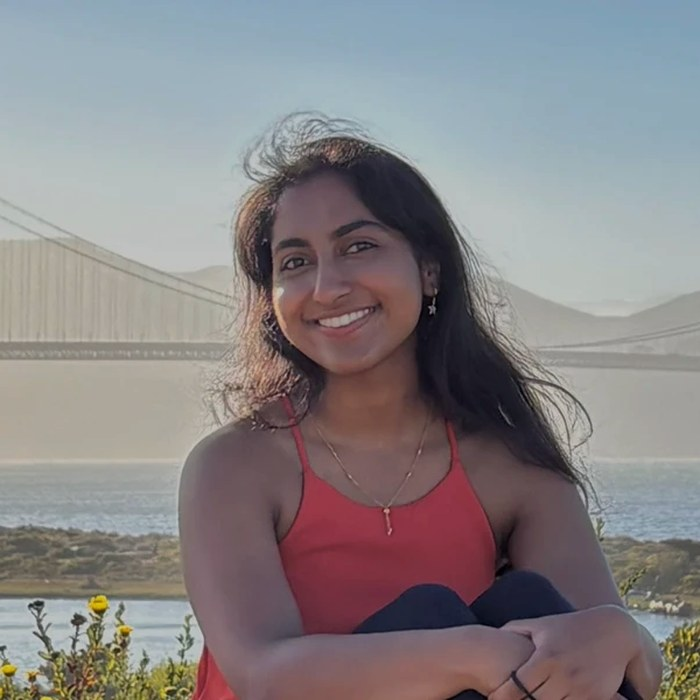
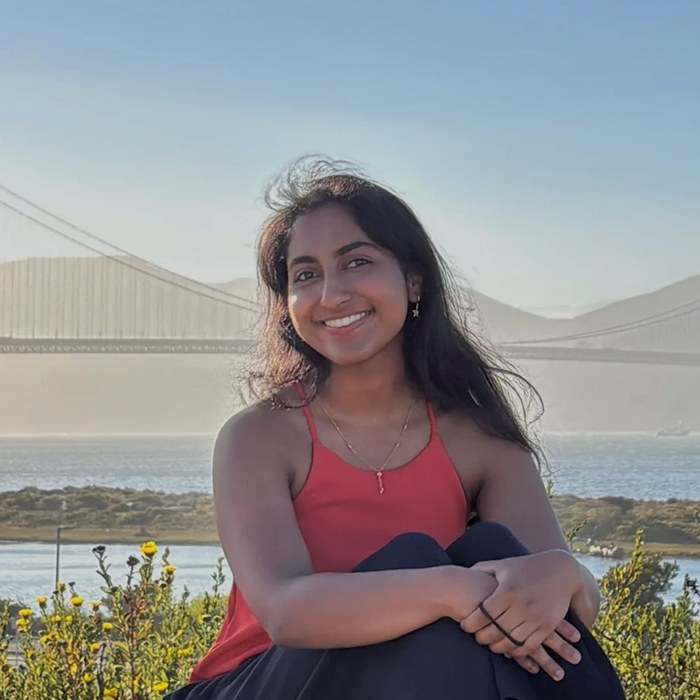
Add my outside-Caltech work to the bio, and widen the portrait
Reverts the resume-style bullets added to the portfolio, publications,
research and more-me pages. The only text change is one line in the home
bio naming DeepMind, AITHYRA, alphaXiv and Aureka, and melding becomes
interfacing.

diff --git a/pages/portfolio.html b/pages/portfolio.html
@@ -25,9 +25,7 @@ permalink: /pages/portfolio/
           <ul>
             <li>Built an AI brain-lesion detection application for clinical radiologists at Stanford.<!-- TODO: Saanvi to confirm the evaluation/trial status and add a public link. --></li>
             <li>Post-training and evaluations for clinical EEG foundation models.</li>
-            <li>Routed lesion decisions on cross-segment self-agreement in place of model confidence, reaching 88.4% accuracy at 40% coverage against a 70.0% baseline (CI +7.3 to +30.6).</li>
-            <li>Combined EEG and MRI to recover 14 of 25 lesions the baseline missed, against 1.4 expected by chance (p &lt; 0.001).</li>
-            <li>Awarded a Caltech SURF. First author on the resulting oral at NeurIPS 2026 RCMLR.</li>
+            <li>Awarded a Caltech SURF.</li>
           </ul>
           <p class="exp-reflection">It was great collaborating with radiologists on this project and building software for the division. My goal was to build lesion detection for epilepsy using MRI and EEG information, simulating the multimodal nature of a clinician's workflow, and this work is being written up.<!-- TODO: Saanvi to confirm the publication status and add a link. --> This experience was especially fun as my first summer in SF, where I grew a lot and got to meet exceptional teams building at the frontier of AI x Bio.</p>
         </div>
@@ -99,66 +97,6 @@ permalink: /pages/portfolio/
 </section>
 
 <section class="exp-group">
-  <h2 class="exp-group-title">genome &amp; protein models</h2>
-  <div class="exp-cards">
-
-    <article class="exp-card-static">
-      <div class="exp-card-face">
-        <div class="exp-card-head">AITHYRA, Research Institute for Biomedical AI, with Ariane Mora</div>
-        <div class="exp-card-body">
-          <ul>
-            <li>Built a seeded, version-pinned evaluation harness for three autoregressive genome language models: Evo 2, GENERator and Carbon.</li>
-            <li>Found 22.4% repetition collapse in Carbon against 0.08% in GENERator, and traced it to 6-mer tokenization.</li>
-            <li>Showed the generated spectrum tracked the prompt rather than the training corpus.</li>
-          </ul>
-          <p class="exp-reflection">This was my first time auditing a generative model instead of building one. Vienna was remote for me, and the harness is the piece I am proudest of: every number in the writeup can be reproduced from a seed and a pinned commit.</p>
-        </div>
-      </div>
-    </article>
-
-    <article class="exp-card-static">
-      <div class="exp-card-face">
-        <div class="exp-card-head">Arnold Laboratory, Caltech, with Frances Arnold</div>
-        <div class="exp-card-body">
-          <ul>
-            <li>Computational de novo enzyme design with diffusion models, targeting beta-lactamase activity.</li>
-          </ul>
-        </div>
-      </div>
-    </article>
-
-    <article class="exp-card-static">
-      <div class="exp-card-face">
-        <div class="exp-card-head">Aureka Biotechnologies, with Danyal Rehman (incoming)</div>
-        <div class="exp-card-body">
-          <ul>
-            <li>AI/ML Scientist Intern, January to June 2027.</li>
-            <li>Converting an in-house autoregressive folding model for antibody design, and reinforcement learning fine-tuning of the foundation model on high-throughput experimental data.</li>
-          </ul>
-        </div>
-      </div>
-    </article>
-
-  </div>
-</section>
-
-<section class="exp-group">
-  <h2 class="exp-group-title">research writing</h2>
-  <div class="exp-cards">
-    <article class="exp-card-static">
-      <div class="exp-card-face">
-        <div class="exp-card-head">alphaXiv</div>
-        <div class="exp-card-body">
-          <ul>
-            <li>Research writer, writing long-form technical guides on world models and on language model psychology.</li>
-          </ul>
-        </div>
-      </div>
-    </article>
-  </div>
-</section>
-
-<section class="exp-group">
   <h2 class="exp-group-title">cancer genomics</h2>
   <div class="exp-cards">
     <article class="exp-card-static">
@@ -167,7 +105,6 @@ permalink: /pages/portfolio/
         <div class="exp-card-body">
           <ul>
             <li>Built ML models on ~1M medulloblastoma cells to identify malignant populations, and presented at the Stanford CCRTP.</li>
-            <li>Won the <a href="https://med.stanford.edu/cancer/about/news/internal/2024_poster_winners.html" target="_blank" rel="noopener noreferrer">People's Choice Award</a> at the 2024 Stanford Comprehensive Cancer Research Training Program, as the only high school student invited (<a href="https://drive.google.com/file/d/1jMRbw48vh7ewmfSiXvcXfDMqBXOKrYhw/view?usp=sharing" target="_blank" rel="noopener noreferrer">presentation</a>).</li>
           </ul>
         </div>
       </div>
@@ -183,9 +120,7 @@ permalink: /pages/portfolio/
         <div class="exp-card-head">University of Washington Sensor Systems Laboratory</div>
         <div class="exp-card-body">
           <ul>
-            <li>Designed and tested energy-harvester topologies in an anechoic chamber, building three working UHF prototypes.</li>
-            <li>Presented twice at the UW Women at the Forefront of ECE Research conference (<a href="https://drive.google.com/file/d/15xK_FEivhXALa6K98qlb4P0eXQ65XMpY/view?usp=sharing" target="_blank" rel="noopener noreferrer">presentation</a>), with the work written up as an <a href="https://papers.ssrn.com/sol3/papers.cfm?abstract_id=4931474" target="_blank" rel="noopener noreferrer">SSRN manuscript</a>.</li>
-            <li>Won AFCEA Excellence in Technology and Sigma Xi Best Interdisciplinary Research at the WA State Science and Engineering Fair, out of 170 competitors.</li>
+            <li>Designed and tested energy-harvester topologies in an anechoic chamber.</li>
           </ul>
         </div>
       </div>

diff --git a/pages/publications.html b/pages/publications.html
@@ -31,42 +31,6 @@ permalink: /publications/
     <div class="pub">
       <div class="pub-when">Dec 2026</div>
       <div class="pub-body">
-        <p class="pub-t">Right Number, Wrong Conclusion: Seven Failures in Clinical ML Evaluation</p>
-        <p class="pub-v">RCMLR @ NeurIPS 2026, <span class="pub-type">oral, first author</span></p>
-        <p class="pub-links"><a href="https://openreview.net/forum?id=k7zEEtF1V8" target="_blank" rel="noopener noreferrer">paper</a></p>
-      </div>
-    </div>
-
-    <div class="pub">
-      <div class="pub-when">Dec 2026</div>
-      <div class="pub-body">
-        <p class="pub-t">When the Verifier Is Wrong: Red-Teaming Agent Verification Where Ground Truth Exists</p>
-        <p class="pub-v">Verify-Agents @ NeurIPS 2026, <span class="pub-type">poster</span></p>
-        <p class="pub-links"><a href="{{ '/verify-agents/' | relative_url }}">project page</a></p>
-      </div>
-    </div>
-
-    <div class="pub">
-      <div class="pub-when">Dec 2026</div>
-      <div class="pub-body">
-        <p class="pub-t">Which Latent Coordinates Drive World-Model Dynamics?</p>
-        <p class="pub-v">Robot Learning with World Models @ NeurIPS 2026</p>
-        <p class="pub-links"><a href="{{ '/latent-coordinates/' | relative_url }}">project page</a></p>
-      </div>
-    </div>
-
-    <div class="pub">
-      <div class="pub-when">Dec 2026</div>
-      <div class="pub-body">
-        <p class="pub-t">Does Benchmark Correlation Predict Selection Quality?</p>
-        <p class="pub-v">Trust-AI-Eval @ NeurIPS 2026</p>
-        <p class="pub-links"><a href="{{ '/benchmark-selection/' | relative_url }}">project page</a></p>
-      </div>
-    </div>
-
-    <div class="pub">
-      <div class="pub-when">Dec 2026</div>
-      <div class="pub-body">
         <p class="pub-t">Action Identifiability in Protein-Design Agents</p>
         <p class="pub-v">AgenticLS @ NeurIPS 2026, <span class="pub-type">poster</span></p>
       </div>
@@ -75,18 +39,17 @@ permalink: /publications/
     <div class="pub">
       <div class="pub-when">Dec 2026</div>
       <div class="pub-body">
-        <p class="pub-t">Do Protein Model Scores Predict Better Proteins? (Gauntlet)</p>
+        <p class="pub-t">Gauntlet: stress-testing protein fitness proxies</p>
         <p class="pub-v">AI for Science @ NeurIPS 2026, <span class="pub-type">poster</span></p>
-        <p class="pub-links"><a href="{{ '/fitness-proxies/' | relative_url }}">project page</a> &nbsp; <a href="https://github.com/saanviiyer/protein-lm-audits/tree/main/gauntlet" target="_blank" rel="noopener noreferrer">code</a></p>
+        <p class="pub-links"><a href="https://github.com/saanviiyer/protein-lm-audits/tree/main/gauntlet" target="_blank" rel="noopener">code</a></p>
+        <!-- TODO: spec called this a "Gauntlet paper"; the repo currently links code, not an archived paper. Confirm whether there is a paper/OpenReview link. -->
       </div>
     </div>
 
     <div class="pub">
       <div class="pub-when">Oct 2026</div>
       <div class="pub-body">
-        <p class="pub-t">A Ring Is Not Enough: Partial Observability Aligns Latent Geometry with Heading in Predictive World Models</p>
-        <p class="pub-v">RoBoWoMo @ IEEE IROS 2026, <span class="pub-type">lightning talk and poster, first author</span>. Extended version under review at ICLR 2027.</p>
-        <p class="pub-links"><a href="{{ '/robot-world-models/' | relative_url }}">project page</a> &nbsp; <a href="https://github.com/saanviiyer/robowomo-attractors" target="_blank" rel="noopener noreferrer">code</a></p>
+        <p class="pub-t">A steerable heading variable in predictive world models</p>
       </div>
     </div>
 
@@ -102,8 +65,6 @@ permalink: /publications/
       <div class="pub-when">Sept 2026</div>
       <div class="pub-body">
         <p class="pub-t">CortSeer: recovering subtle epileptogenic lesions with an anatomical prior</p>
-        <p class="pub-v">AI for Medical 3D Vision @ ECCV 2026, <span class="pub-type">oral</span>. Submitted to Brain Informatics.</p>
-        <p class="pub-links"><a href="{{ '/projects/cortseer/' | relative_url }}">project page</a></p>
       </div>
     </div>
 
@@ -118,9 +79,9 @@ permalink: /publications/
     <div class="pub">
       <div class="pub-when">preprint</div>
       <div class="pub-body">
-        <p class="pub-t">Topic Modeling Shows Rhombic Lip Developmental Lineages Persist in Medulloblastoma</p>
-        <p class="pub-v">bioRxiv, <span class="pub-type">preprint</span>. Pattwell Lab, Seattle Children's Research Institute.</p>
-        <p class="pub-links"><a href="https://www.biorxiv.org/content/10.1101/2025.11.12.687706v2.full" target="_blank" rel="noopener noreferrer">preprint</a></p>
+        <p class="pub-t">Medulloblastoma topic modeling (Seattle Children's)</p>
+        <p class="pub-v">bioRxiv, <span class="pub-type">preprint</span></p>
+        <!-- TODO: UNVERIFIED. I could not find this preprint in the site or repos. Need the exact title, authors, bioRxiv DOI/link, and date before publishing. -->
       </div>
     </div>
 

diff --git a/index.html b/index.html
@@ -12,9 +12,9 @@ description: >-
 
   <p class="home-hi">hello!</p>
 
-  <p>i'm saanvi, and i'm studying computer science and neurobiology at caltech, class of 2028. i am excited about frontier ai and its positive applications in neuroscience and biology. recently, i've been curious about alignment<sup id="ref1"><a href="#fn1">1</a></sup> and interpretability, models that can understand world mechanics, and the safe melding of human minds and machines.</p>
+  <p>i'm saanvi, and i'm studying computer science and neurobiology at caltech. i am excited about frontier ai and its positive applications in neuroscience and biology. recently, i've been curious about alignment<sup id="ref1"><a href="#fn1">1</a></sup> and interpretability, models that can understand world mechanics, and the safe interfacing of human minds and machines.</p>
 
-  <p>i've been fortunate to work in exciting research labs. in high school i spent two summers at the <a href="https://www.seattlechildrens.org/directory/siobhan-pattwell/" target="_blank" rel="noopener">pattwell lab</a> in the <a href="https://www.seattlechildrens.org/research/centers-programs/childhood-cancer/" target="_blank" rel="noopener">ben towne center for childhood cancer</a> at seattle children's. at caltech i've worked jointly with the <a href="https://www.vision.caltech.edu/" target="_blank" rel="noopener">perona lab</a> and <a href="https://pachterlab.github.io/" target="_blank" rel="noopener">pachter lab</a>, and i did a summer research fellowship on clinical neurotech with <a href="https://radiology.stanford.edu/" target="_blank" rel="noopener">stanford radiology</a>. i'm advised by <a href="https://meisterlab.caltech.edu/" target="_blank" rel="noopener">markus meister</a>.<br>currently, i'm a part of the <a href="https://www.yisongyue.com/about" target="_blank" rel="noopener">yue crew</a>, working on video encoder architectures, and i'm working on computational de novo enzyme design with the <a href="https://fhalab.caltech.edu/" target="_blank" rel="noopener">arnold lab</a>. outside caltech i contract with <a href="https://deepmind.google/" target="_blank" rel="noopener noreferrer">google deepmind</a> on disentangled rnns for human behavioral data, write long-form research guides for <a href="https://www.alphaxiv.org/" target="_blank" rel="noopener noreferrer">alphaxiv</a>, and i spent last spring and summer at aithyra, the research institute for biomedical ai in vienna, auditing genome language models. in january i join <a href="https://www.aureka.bio/" target="_blank" rel="noopener noreferrer">aureka biotechnologies</a> to work on antibody design.</p>
+  <p>i've been fortunate to work in exciting research labs. in high school i spent two summers at the <a href="https://www.seattlechildrens.org/directory/siobhan-pattwell/" target="_blank" rel="noopener">pattwell lab</a> in the <a href="https://www.seattlechildrens.org/research/centers-programs/childhood-cancer/" target="_blank" rel="noopener">ben towne center for childhood cancer</a> at seattle children's. at caltech i've worked jointly with the <a href="https://www.vision.caltech.edu/" target="_blank" rel="noopener">perona lab</a> and <a href="https://pachterlab.github.io/" target="_blank" rel="noopener">pachter lab</a>, and i did a summer research fellowship on clinical neurotech with <a href="https://radiology.stanford.edu/" target="_blank" rel="noopener">stanford radiology</a>. i'm advised by <a href="https://meisterlab.caltech.edu/" target="_blank" rel="noopener">markus meister</a>.<br>currently, i'm a part of the <a href="https://www.yisongyue.com/about" target="_blank" rel="noopener">yue crew</a>, working on video encoder architectures, and i'm working on computational de novo enzyme design with the <a href="https://fhalab.caltech.edu/" target="_blank" rel="noopener">arnold lab</a>. outside caltech i work with <a href="https://deepmind.google/" target="_blank" rel="noopener">google deepmind</a> on how people learn rewards, i spent last year at aithyra in vienna auditing genome language models, i write research guides for <a href="https://www.alphaxiv.org/" target="_blank" rel="noopener">alphaxiv</a>, and in january i'm joining <a href="https://www.aureka.bio/" target="_blank" rel="noopener">aureka biotechnologies</a> to work on antibody design.</p>
 
   <p>in my free time, i love listening to music<sup id="ref2"><a href="#fn2">2</a></sup> and dj-ing, <a href="https://www.instagram.com/sundisinghs/" target="_blank" rel="noopener">singing and songwriting</a><sup id="ref3"><a href="#fn3">3</a></sup>, and playing tennis<sup id="ref4"><a href="#fn4">4</a></sup>. i sing in caltech's a cappella group, <a href="https://www.instagram.com/ooc.caltech/" target="_blank" rel="noopener">out of context</a>. i also enjoy being a <a href="http://wellness.caltech.edu/advocate-programs/peer-advocate" target="_blank" rel="noopener">peer advocate</a> at caltech.</p>
 

diff --git a/pages/research.html b/pages/research.html
@@ -14,9 +14,7 @@ permalink: /pages/research/
 
 <p class="proj-line"><strong>PRISM:</strong> i built a pipeline that applies all 78 COSMIC single-base-substitution signatures to protein-coding sequences and measures how each mutant cloud moves through ESM-2 space relative to Pfam domain centroids. SBS17a repeatedly steered sequences toward PF17041 across two independent Pfam clans. the follow-up controls changed my interpretation: a composition-matched control reproduced 72% of the movement on the steering readout, and about 34% on the trajectory readout, while protein length explained 94.1% of displacement. the project became as much about auditing the representation as reading the signal.</p>
 
-<p class="proj-line"><strong>verify-agents:</strong> i red-team the verifier sitting inside an agent loop. a memorized scorer passes a trust gate at AUROC 0.991 while adding only 0.028 good candidates per batch, against 1.082 for an honest scorer. a pool-side attack corrupts only unmeasured candidates, so any gate that looks at measured data returns identical statistics. sequential probing catches 99.2% of that attack but recovers only 10% of the lost value, and a fallback model recovers 47%.</p>
-
-<p class="proj-line"><strong>gauntlet:</strong> gauntlet stress-tests protein fitness proxies before they are used to rank designs. on measured PETase activity, zero-shot ESM-2 ranks enzyme activity at rho = +0.007 across 504 variants, below a plain mutation count at +0.251. across 70 benchmark units, reported correlation explains 50% of selection value at the top 10% and 16% at the top 1%. the broader audit asks whether a proxy adds value beyond trivial baselines, stays useful in the top-ranked tail, and resists reward hacking.</p>
+<p class="proj-line"><strong>gauntlet:</strong> gauntlet stress-tests protein fitness proxies before they are used to rank designs. on measured PETase activity, a plain mutation-count baseline beat ESM-2 zero-shot. the broader audit asks whether a proxy adds value beyond trivial baselines, stays useful in the top-ranked tail, and resists reward hacking.</p>
 
 <p class="proj-line"><strong>action identifiability in protein-design agents:</strong> this project asks whether an agent's apparent success identifies the biological action that caused it. the goal is to separate good outcomes from justified decisions.</p>
 
@@ -29,16 +27,7 @@ permalink: /pages/research/
 
 <p class="proj-line"><strong>steerable heading:</strong> predictive world models recovered a steerable heading variable from a robot's range sensors without pose supervision, but only under partial observability. i ran these simulations to understand when missing observations force a model to maintain a stable internal state instead of relying on the current frame.</p>
 
-<p class="proj-line"><strong>task-space reward learning:</strong> with researchers at Google DeepMind and the University of Edinburgh, i fit recurrent neural networks to behavior in a 487-participant bandit task space, and i interpret what the learned latents say about how people learn rewards.</p>
-
-<p class="proj-line"><strong>steerable heading, continued:</strong> 86 models trained without pose supervision. a ring geometry appears even in the controls that cannot integrate, which is why the paper's claim is about alignment with heading under partial observability rather than about the ring itself.</p>
-
-<h2 class="section-heading">Genome and protein language models</h2>
-<p class="proj-blurb">i test what a generative sequence model has actually learned, separately from what its samples look like.</p>
-
-<p class="proj-line"><strong>genome LM evaluation harness (AITHYRA):</strong> i built a seeded, version-pinned harness for three autoregressive genome language models, Evo 2, GENERator and Carbon. Carbon collapsed into repetition on 22.4% of generations against 0.08% for GENERator, and the collapse traced to 6-mer tokenization. the generated nucleotide spectrum tracked the prompt rather than the training corpus.</p>
-
-<p class="proj-line"><strong>de novo enzyme design (Arnold Lab):</strong> computational design of new enzymes with diffusion models, targeting beta-lactamase activity.</p>
+<p class="proj-line"><strong>task-space reward learning:</strong> with researchers at Google DeepMind and the University of Edinburgh, i fit recurrent neural networks to behavior in a 487-participant bandit task space.</p>
 
 <p class="proj-line"><strong>surgical video models:</strong> i test whether video foundation models use temporal information when scoring surgical movement. a single still frame matched the full 16-frame video across the current encoders. the next experiments isolate order, change, and static appearance so the representation claim can be falsified.</p>
 

diff --git a/pages/more-me.html b/pages/more-me.html
@@ -11,20 +11,4 @@ permalink: /more-me/
 
 <p class="proj-blurb">find me on <a href="https://saanviss.substack.com/" target="_blank" rel="noopener">substack</a>, <a href="https://www.instagram.com/sundisinghs/" target="_blank" rel="noopener">instagram (sundisinghs)</a>, and in a <a href="{{ '/pages/designs/' | relative_url }}">scrollable portfolio of all my designs</a>.</p>
 
-<h2 class="pf-heading" style="margin-top: 64px;">before caltech</h2>
-
-<p class="proj-blurb">a few things i built and ran in high school, kept here so the current research pages stay about the research.</p>
-
-<ul class="mm-list">
-  <li><strong>parvaiyattam cataract surgery fundraiser.</strong> i project-managed two dance productions that raised $22,568 to fund 400 cataract surgeries at Nawalapitiya General Hospital in Sri Lanka. the write-up placed 1st internationally at DECA, out of more than 18,000 competitors.</li>
-  <li><strong>bothell SWENext.</strong> i founded the chapter and grew it past 30 members, ran 20+ STEM events that moved reported STEM interest up 34%, and helped organize the national <em>Invent It, Build It!</em> conference as one of five student reps. it won the 2024 SWENext Global Innovator award and an NCWiT Aspirations in Computing Impact Award (<a href="https://sites.google.com/view/bothellswenext/home" target="_blank" rel="noopener noreferrer">site</a>).</li>
-  <li><strong>science olympiad.</strong> varsity captain, 30+ medals across regional, state and national competitions, including 1st nationally in Detector Building at the 2024 MIT Invitational.</li>
-  <li><strong>singing.</strong> lead alto in my school's jazz choir and a 3x Washington All-State and All-Northwest performer (<a href="https://drive.google.com/file/d/1BnIp0qctsAM0QYqxeCmIL5nU5d1PjujZ/view?usp=sharing" target="_blank" rel="noopener noreferrer">music resume</a>).</li>
-</ul>
-
-<style>
-  .mm-list { font-family: var(--sans); font-size: 0.97rem; line-height: 1.6; max-width: 68ch; padding-left: 18px; }
-  .mm-list li { margin-bottom: 14px; }
-</style>
-
 <p class="post-back"><a href="{{ '/' | relative_url }}">&larr; home</a></p>
